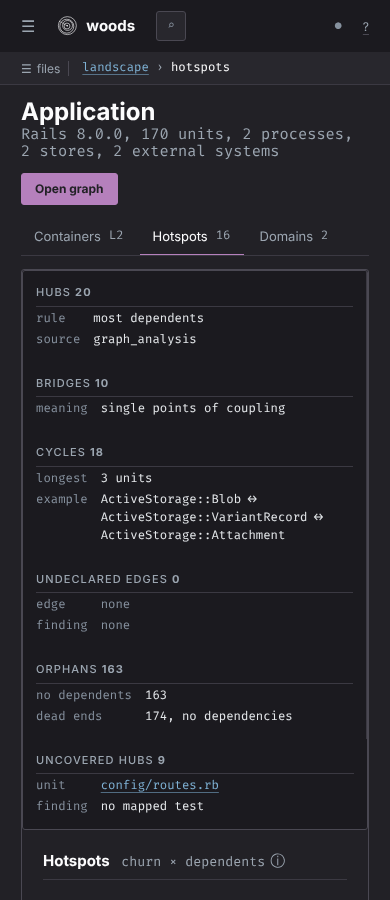
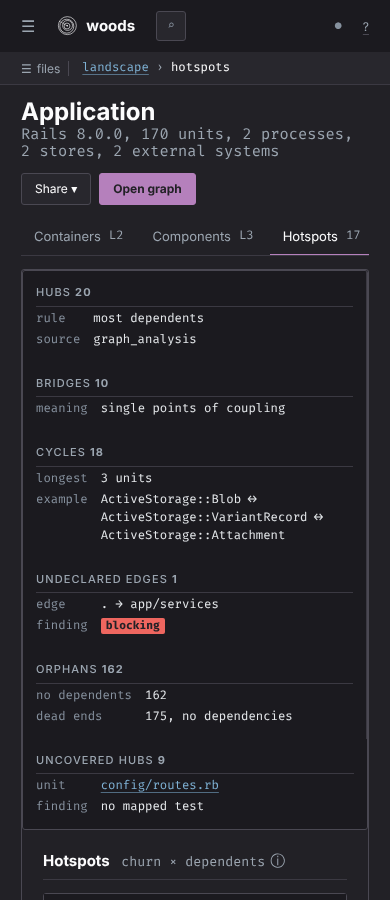
Document the flow overlay, timeline, components, charts and Share; screenshots

diff --git a/CLAUDE.md b/CLAUDE.md
@@ -51,7 +51,8 @@ lib/woods_map/passage.rb         # the Passage tab: declared filters, templates 
 lib/woods_map/routes_view.rb     # the controller Routes tab: declared routes joined to route units, helpers, action sources, helper references
 lib/woods_map/permitted_attributes.rb  # permitted keys against the model's published columns, associations, attachments, rich text, writers
 lib/woods_map/{neighbourhood_query,neighbourhood_response,graph_elements}.rb  # bounded JSON projection of existing traversal
-lib/woods_map/{landscape,container_relationships,landscape_export,hotspots}.rb  # the Landscape: C4 containers from metadata.container (W-9), its text exports, hotspots, domains
+lib/woods_map/{landscape,container_relationships,landscape_export,hotspots,components}.rb  # the Landscape: C4 containers from metadata.container (W-9), its text exports, components by package/namespace/cluster, hotspots (quadrant, sankey), domains
+lib/woods_map/{graph_flow,graph_timeline,repository_flows}.rb  # the graph's flow overlay (W-13 membership and documents) and commit timeline (W-3)
 lib/woods_map/{blast_radius,impact_review}.rb  # the impact page's pre-change mode: reverse-edge propagation with paths; rules, tests, gaps, unknowns
 lib/woods_map/{impact_range,range_report,since}.rb  # Woods' range or saved report, its tabs, and ?since= evidence for unit pages (E-6 to E-8)
 lib/woods_map/{search_results,palette,file_tree}.rb  # search modes, the palette's groups, the per-generation file tree
@@ -69,7 +70,7 @@ app/views/woods_map/shared/      # the frame: bar, crumbs, ident, tabs, status, 
 app/views/woods_map/components/  # table, steps, detail, rail, tree, facts, legend, diagram, banner, empty state
 app/views/woods_map/guidelines/  # the C1 to C5 boards rendered from the partials above
 app/views/woods_map/{units,search,impact,erd,history}/ # unit pages (Code, Routes, Passage, Schema, Lifecycle, Graph, History, peek, 404), search, impact lenses, the ERD, /woods/history and the commit strip
-app/views/woods_map/landscape/    # Containers, Hotspots and Domains tabs, the C4 box
+app/views/woods_map/landscape/    # Containers, Components, Hotspots and Domains tabs, the C4 box and ladder
 app/views/woods_map/graphs/       # the explorer partial shared by the Graph tab and /woods/graph, the page and its hub picker
 vendor/javascript/               # stimulus, pele, cytoscape (vendored); turbo, vis-timeline, highlight.js as milestones land them
 vendor/fonts/                    # Inter (latin subsets) and the complete Fira Code, WOFF2 (D-12)
@@ -100,7 +101,8 @@ docs/design/                     # design study, decisions, boards, foundations,
 - The Share menu (`shared/_share`, E-6) is a `<details>` disclosure with the page's `focus_url`, which never carries `token`, and, from each `components/mermaid_tools` copy tool (`data-mermaid-name`, `data-mermaid-href`), the page's Mermaid text and its absolute `.mmd` URL. It offers no Markdown or JSON report, not even Woods output handed through (D-25). The `y` key skips copy tools inside `.share`.
 - The Graph tab's canvas (`graph` controller) fetches `/woods/graph/neighbourhood` for the page's own query and draws it with the vendored Cytoscape; the Pele flowchart and the list stay the no-JavaScript page and the Mermaid export. Layouts are the controller's butterfly (signed traversal columns) and Cytoscape's built-in `concentric` (woods-map#63): no layout extension is vendored. Type tints are `--g` on `[data-gtype]` in `map.css`, read through a probe and mixed into `--panel`, so canvas and legend agree; a theme switch repaints. List rows carry `data-edge` (`GraphElements.edge_id`), the JSON's edge id. Above 150 edges the mechanism labels appear only when zoomed in. `spec/woods_map_graph_browser_spec.rb` times a 300-unit draw synchronously before load (virtual time freezes `performance.now()` once a timer fires); set `WOODS_MAP_GRAPH_BUDGET_MS` to enforce a budget. The tab and `/woods/graph` share `graphs/_explorer`; dragged positions are kept in `localStorage` per generation, query and layout (A-3), and the page's blast tint comes from `BlastRadius`, never from the client. Domain clusters are not drawn until Woods publishes them (woods#799).
 - The Graph tab's canvas (`graph` controller) fetches `/woods/graph/neighbourhood` for the page's own query and draws it with the vendored Cytoscape; the Pele flowchart and the list stay the no-JavaScript page and the Mermaid export. Layouts are the controller's butterfly (signed traversal columns) and Cytoscape's built-in `concentric` (woods-map#63): no layout extension is vendored. Type tints are `--g` on `[data-gtype]` in `map.css`, read through a probe and mixed into `--panel`, so canvas and legend agree; a theme switch repaints. List rows carry `data-edge` (`GraphElements.edge_id`), the JSON's edge id. Above 150 edges the mechanism labels appear only when zoomed in. `spec/woods_map_graph_browser_spec.rb` times a 300-unit draw synchronously before load (virtual time freezes `performance.now()` once a timer fires); set `WOODS_MAP_GRAPH_BUDGET_MS` to enforce a budget. The tab and `/woods/graph` share `graphs/_explorer`; dragged positions are kept in `localStorage` per generation, query and layout (A-3), and the page's blast tint comes from `BlastRadius`, never from the client. Domain clusters come from `graph_analysis.json` (woods#799) and drive the *clusters* layout; never derive them from namespaces. Overview mode (more than 120 units or 150 edges) draws units unlabelled and edges as haystack lines until zoom 0.7; `warm` draws a small graph off screen while the request is in flight.
-- The Landscape reads containers only from graph nodes' `container` (W-9) and technologies from the BehavioralProfile unit; people and the system's name are host configuration (`landscape_actors`, `system_name`), never guessed. Edges leaving a database are not drawn as relationships (the index does not say which process runs a model's callback). `/woods/landscape.{mmd,dsl,c4}` are plain text (D-25); 422 without W-9.
+- The Landscape reads containers only from graph nodes' `container` (W-9) and technologies from the BehavioralProfile unit; people and the system's name are host configuration (`landscape_actors`, `system_name`), never guessed. Edges leaving a database are not drawn as relationships (the index does not say which process runs a model's callback). `/woods/landscape.{mmd,dsl,c4}` are plain text (D-25); 422 without W-9. Components group only by published facts (graph node `package`, `namespace`, `domain_clusters`); `/woods/landscape/{components,quadrant,sankey}.mmd` answer 422 with the reason when the generation lacks them. Quadrant points stay in 0.02..0.98 with two decimals (Pele's lexer refuses `1.000`).
+- The graph's flow overlay reads only `Repository#flow_entry_points`/`#flow_document` (W-13; `flow_state` is :unsupported on a Woods without the readers). A controller step names its action; it is drawn as the controller. Moves are matched to drawn edges in either direction, and anything else goes in the side list, never onto the canvas. The timeline matches commits to drawn units by graph node `file_path` and `source_paths` only.
 - The code view is one scroll region (`.cvwrap`, D-24, woods-map#29): the source column grows to its longest line and the gutters are sticky. Do not reintroduce `overflow-x:auto` on `.src`.
 - Code links consume only published `metadata.references` with `kind: constant` and `confidence: verified`, resolved by exact target and target type in the pinned generation. Their 1-based lines address annotated `source_code`; columns and lengths count UTF-8 bytes, including original newlines. Only unchanged file rows can carry links. Missing/invalid metadata and hidden or transformed rows stay unlinked; the internal reference cache is not a public link source. `source_line_map` runs contain annotated start, original start and length, not an ending line. Verification describes the published typed-registry evidence, not complete runtime call coverage.
 

diff --git a/docs/design/coverage.md b/docs/design/coverage.md
@@ -41,10 +41,10 @@ opens the file tree.
 | `/woods/files/*path` | Indexed file ownership: primary and contributor paths, typed owners and unresolved membership | B-5 | [M1 navigation note](notes/m1-indexed-navigation.md) | shared components; mounted acceptance separate |
 | `/woods/landscape` Context L1 | People and external systems | B-21 | [B8-Landscape](boards/B8-Landscape.html) (ladder only) | partial; people from `config.landscape_actors`, inside the Containers tab ([note](notes/landscape.md)) |
 | Landscape Containers L2 | C4 containers, relationships, structural risk | B-21, W-9 | [B8-Landscape](boards/B8-Landscape.html) | final; built from W-9 with Mermaid, Structurizr DSL and LikeC4 exports ([note](notes/landscape.md)) |
-| Landscape Components L3 | Compound graph by package with container frame | B-22 | — | **none** |
-| Landscape Hotspots | Quadrant, coupling matrix, sankey, treemap, structural risk | design study §7 | [B6-Overview](boards/B6-Overview.html) | final; tiles, churn ranking, coupling matrix and risk built; quadrant, sankey and treemap not ([note](notes/landscape.md)) |
+| Landscape Components L3 | Components by package, namespace or domain cluster, with the board's group control | B-22 | [B8-Landscape](boards/B8-Landscape.html) (group control, ladder) | built: boxes, Pele component diagram, relationships with undeclared package edges; by package only for Packwerk apps (Woods #280) ([note](notes/landscape.md)) |
+| Landscape Hotspots | Quadrant, coupling matrix, sankey, treemap, structural risk | design study §7 | [B6-Overview](boards/B6-Overview.html) | final; tiles, the churn × dependents quadrant and ranking, coupling matrix, forward-flow sankey and risk built; the LOC treemap waits on [woods#810](https://github.com/lost-in-the/woods/issues/810) ([note](notes/landscape.md)) |
 | Landscape Domains | Domain clusters | design study §7 | [design note](notes/landscape.md) | built from woods#799, with the graph's clusters layout |
-| `/woods/graph` | Full-screen graph, domain clusters, list equivalent, flow overlay | FR-5, A-3 to A-6 | B5-Graph (tab only); [design note](notes/graph-page.md) | partial: page, list equivalent, blast tint and position cache built; clusters wait on [woods#799](https://github.com/lost-in-the/woods/issues/799); flow overlay and timeline open |
+| `/woods/graph` | Full-screen graph, domain clusters, list equivalent, flow overlay | FR-5, A-3 to A-6 | B5-Graph (tab only); [design note](notes/graph-page.md) | built: page, list equivalent, blast tint, position cache, clusters layout (woods#799), flow overlay from W-13 ([woods#805](https://github.com/lost-in-the/woods/pull/805)) and the commit timeline from W-3; layouts pending [woods-map#63](https://github.com/lost-in-the/woods-map/issues/63) |
 | `/woods/erd` | Whole database by chunk, findings | FR-6 | [B6-ERD](boards/B6-ERD.html) | final; the engine cuts chunks at the ER budget of 40 tables (R-4), not the board's ~15, lists relations to other chunks instead of drawing their far table, and leaves out the board's commits column and polymorphic candidates (W-23) |
 | `/woods/history` | Cross-unit timeline for a selected set, commit → node | FR-7, A-6 | [History note](notes/history.md) | note; server-rendered lanes with changed-together pairs, a picker of the most-changed units, the `timeline` export |
 | `/woods/impact` Overview | The report's summary as the page's sections (no Markdown, D-25) | E-7 | [Impact range note](notes/impact-range.md) (v8 pass of B5-Impact-Overview) | summary table, samples, provenance, coverage, unknowns; range and saved reports (`/woods/impacts/:id`) |
@@ -72,9 +72,9 @@ them. Each is a comment on that issue, so the issue owns it.
 - **M1 · Reading (woods-map#34, carried over from #2)**: units index and indexed ownership now have a [bounded design note](notes/m1-indexed-navigation.md) under [#34](https://github.com/lost-in-the/woods-map/issues/34); the Routes tab has a [design note](notes/routes-tab.md); remaining gaps include facts tiles for job, mailer, view, concern, serializer and table units; the hover card has a [design note](notes/hover-card.md); disambiguation popover; the settings popover has a [design note](notes/settings.md); keyboard help; Share menu contents ([design note](notes/share-menu.md), D-25).
 - **M2 · Passage (woods-map#3)**: mailer passage with templates (reuse the controller passage).
 - **M4b · Impact (woods-map#4)**: Overview and Graph tabs and `?since=` on Code, Graph, Lifecycle, Passage and ERD have design notes ([impact range](notes/impact-range.md), [since](notes/since.md)); changed lines and the diff wait on [woods#802](https://github.com/lost-in-the/woods/issues/802); `?since=` on the tree and timeline remains.
-- **M3 · Diagrams (woods-map#5)**: Landscape Context L1, Components L3, Domains; C4-dynamic in the Lifecycle view control (needs W-9); the renderer decision (woods-map#25). The flowchart and lanes views follow the [lifecycle views note](notes/lifecycle-views.md).
+- **M3 · Diagrams (woods-map#5)**: Landscape Context L1 as its own tab; the LOC treemap (woods#810); C4-dynamic in the Lifecycle view control (needs W-9); the renderer decision (woods-map#25). The flowchart and lanes views follow the [lifecycle views note](notes/lifecycle-views.md).
 - **M4 · History (woods-map#6)**: `/woods/history` cross-unit timeline; generation picker; unit diff entry from the History tab. Built from the [History note](notes/history.md).
-- **M5 · Graph (woods-map#7)**: [neighbourhood JSON contract](notes/neighbourhood-json.md); the Graph tab's Cytoscape canvas, layouts pending [woods-map#63](https://github.com/lost-in-the/woods-map/issues/63); the [full-screen graph](notes/graph-page.md) without clusters (woods#799); the flow overlay and timeline remain separate.
+- **M5 · Graph (woods-map#7)**: [neighbourhood JSON contract](notes/neighbourhood-json.md); the Graph tab's Cytoscape canvas, layouts pending [woods-map#63](https://github.com/lost-in-the/woods-map/issues/63); the [full-screen graph](notes/graph-page.md) with clusters, the flow overlay (A-4) and the commit timeline (A-6).
 - **M6 · Trail (woods-map#8)**: the board, end to end.
 - **M7 · Guide (woods-map#9)**: chat history, pin and "open as investigation" handoff.
 

diff --git a/docs/design/notes/landscape.md b/docs/design/notes/landscape.md
@@ -1,11 +1,11 @@
 # Landscape
 
-Scope: B-21 and B-22 (by domain cluster), FR-6 exports, D-25. Relates to #5
-(M3) and #7 (M5). Boards: [B8-Landscape](../boards/B8-Landscape.html) for
-Containers, [B6-Overview](../boards/B6-Overview.html) for Hotspots. The
-Domains tab has no board; this note covers it.
+Scope: B-21, B-22 (by package, namespace or domain cluster), FR-6 exports, D-25.
+Relates to #5 (M3) and #7 (M5). Boards: [B8-Landscape](../boards/B8-Landscape.html)
+for Containers, Components and the group control, [B6-Overview](../boards/B6-Overview.html)
+for Hotspots. The Domains tab has no board; this note covers it.
 
-`/woods/landscape(/containers|hotspots|domains)` reads one pinned generation.
+`/woods/landscape(/containers|components|hotspots|domains)` reads one pinned generation.
 `Landscape` joins the primary bar, between Units and Graph.
 
 ## Containers (C4 level 2)
@@ -45,22 +45,63 @@ name in `Content-Disposition`. A generation without W-9 answers 422.
 | Mermaid | `/woods/landscape.mmd` | flowchart, the system as a subgraph |
 | Structurizr DSL | `/woods/landscape.dsl` | workspace, one container view, `Database` cylinder |
 | LikeC4 | `/woods/landscape.c4` | specification, model, `containers of app` view |
+| Mermaid | `/woods/landscape/components.mmd?group=package\|namespace\|cluster` | the Components flowchart |
+| Mermaid | `/woods/landscape/quadrant.mmd` | the Hotspots quadrant |
+| Mermaid | `/woods/landscape/sankey.mmd` | the Hotspots forward flow |
+
+A diagram the generation cannot draw answers 422 with the reason: no packages, no
+clusters, no commit counts, or no forward edge.
+
+**Share menu.** Every Landscape tab has the Share menu: the token-free focus URL (tab and
+`group` included) and the tab's text exports as plain links, so the menu works without a
+script. With a script it also copies each diagram's Mermaid, as on the unit pages.
+
+## Components (C4 level 3)
+
+The board's `group` control picks one of three published groupings:
+
+- **package**: the `package` Woods writes on each graph node from `package.yml`
+  (Packwerk or pks, Woods #280). It is the default when any unit has one. Each box names
+  the packages its `package.yml` declares, from the package unit's `package_dependency`
+  edges. A relationship that `graph_analysis.json` lists in `undeclared_package_edges`
+  is marked *undeclared*.
+- **namespace**: the top-level segment of each node's `namespace`. Units with none
+  share *(top level)*. This is the default without packages.
+- **domain cluster**: `graph_analysis.json` `domain_clusters` (woods#799). Units in no
+  cluster share *(no cluster)*.
+
+Members are application units: a relative source file and a type that is code. Routes,
+migrations, configuration, framework sources, engines, packages and test mappings are
+left out. Relationships count published edges between members of two groups, leaving
+out test coverage, route exercise, documentation, migration and package-declaration
+edges.
+
+**Limits.** A generation with no packages, asked for packages, says so and links
+the other two groupings. The same applies to clusters before woods#799. The map never
+infers a package from a directory or a cluster from names. The flowchart stops at 40
+components (R-4), and the tables still list every one.
 
 ## Hotspots (B6-Overview)
 
 **Built**
 - Tiles for hubs, bridges, cycles, undeclared package edges, orphans and uncovered
   hubs. A hub is uncovered when no `test_coverage` edge reaches it.
-- A churn × dependents ranking from node commit counts. When the generation has no
-  git enrichment, this is an empty state.
+- The churn × dependents **quadrant** (Pele `quadrantChart`) above the ranked list of
+  the same 18 units. x is commits against the most changed unit; y is dependents on a
+  log scale against the most depended upon. Points stay inside 0.02 to 0.98, and
+  names keep only characters the grammar reads (`::` becomes `.`). Without git
+  enrichment this is an empty state.
 - The layer coupling matrix: typed edges, leaving out test, route-exercise,
   documentation and migration bookkeeping.
+- The **forward flow** (Pele `sankey`): the matrix's edges from a layer to a later one
+  (controllers, views, components, jobs, mailers, models), so the flow has no cycle.
+  Edges that run back up the layers stay in the matrix.
 - The structural-risk table.
 
 **Not built**
-- The quadrant chart.
-- The forward-flow sankey.
-- The LOC treemap. LOC per package is not published.
+- The LOC treemap. Woods publishes no size per unit, so a package's size can't be
+  summed without reading host files. That data is filed as
+  [woods#810](https://github.com/lost-in-the/woods/issues/810).
 
 ## Domains
 
@@ -72,6 +113,6 @@ one block. Clusters are identifier-level, as Woods publishes them.
 ## Not built
 
 - Context (L1) and Status as separate tabs; Context sits inside Containers.
-- Components (L3) by Packwerk package.
-- The board's `group` control.
-- The Share menu.
+- The treemap (woods#810).
+- The board's *period* control on Hotspots. Commit counts are the generation's own
+  git enrichment, with no window to choose.

diff --git a/docs/design/notes/graph-page.md b/docs/design/notes/graph-page.md
@@ -1,8 +1,8 @@
 # Full-screen graph
 
-Scope: FR-5, A-2, A-3, A-5 and E-9 tinting. Relates to #7.
-Layouts are decided in #63. Domain clusters wait on woods#799.
-The flow overlay (A-4) and the timeline (A-6) remain separate.
+Scope: FR-5, A-2 to A-6 and E-9 tinting. Relates to #7.
+Layouts are decided in #63. The flow overlay (A-4) and the timeline (A-6) are on the
+Graph tab and on this page alike.
 
 No board designs this page; B6-Graph designs only the Graph tab. The page reuses
 that tab's explorer unchanged:
@@ -61,15 +61,55 @@ At most 24 keys are kept; the oldest is dropped. A new generation starts from th
 computed layout. *Reset positions* forgets the current key. Every storage access
 is in `try`/`catch`; without storage the page draws the same and keeps nothing.
 
-## Not built
+## Domain clusters
 
-**Domain clusters** need a generation from a Woods that publishes them (woods#799).
+Domain clusters come from a Woods that publishes them (woods#799).
 With them, `group=clusters` and a *clusters* layout box each cluster's drawn members
 (see [landscape.md](landscape.md)). Without them, the rail links woods#799 and the page
 draws none. It never derives clusters from namespaces itself.
 
-**Flow overlay (A-4) and timeline (A-6).** Both need the flow index (W-13) and the
-History work (M4). They stay on #7.
+## Flow overlay (A-4)
+
+The rail's *flows* group lists the precomputed flows that expanded a step of the
+centre. It reads `PublishedIndex#flow_entry_points` over `flows/by_unit.json` (W-13,
+[woods#805](https://github.com/lost-in-the/woods/pull/805)). Each entry links the
+same view with `?flow=`, and the filter form, depth and direction links keep it.
+
+`GraphFlow` maps the selected document's steps onto what the explorer draws:
+
+- A controller step (`PostsController#create`) is drawn as its controller's unit.
+  Every other step is drawn as its own typed unit.
+- A move from one step's unit to the next is matched to a drawn edge between them,
+  in either direction. Two steps on the same unit need no edge.
+- The canvas outlines the matched units and edges in the link colour. *Play the flow*
+  lights them one step at a time, and the status line names each step. With reduced
+  motion, the whole path is lit at once and named in one line.
+- The side list, *Flow ⟨entry⟩*, has every step in document order. It shows the
+  operation count, whether the canvas draws the step's unit at this depth, and the edge
+  that reached it. A step with no graph edge from the step before is marked there.
+  Nothing is drawn that the graph does not have.
+
+The rail says why no flow is listed: none expands this unit (each flow stops at
+its own depth), the generation publishes none (`precompute_flows` is off), the
+artifacts are unreadable, or this Woods has no W-13 readers. Membership is bounded
+flow evidence. It does not show that a request takes the path.
+
+## Timeline (A-6)
+
+`GraphTimeline` lists the commits in the generation's commit table (W-3) that touched
+a drawn unit's `file_path` or `source_paths`, newest first. It keeps at most 80 and
+says how many it left out. With a script, two range inputs pick a window of commits,
+oldest first, and the units its commits touched are filled with `--mod`. A *tint*
+button on each row narrows the window to that commit. Without a script, the commit
+list names the drawn units each commit touched. A unit's inlined concerns count
+through the concern's own node only. Without a commit table, the section says why.
+
+## Not built
+
+- The timeline as vis-timeline. As on `/woods/history`, no unmodified ESM build fits
+  the no-build rule, so the window is two native range inputs.
+- Operations inside a flow step, drawn on the canvas. The side list counts them; the
+  unit's own pages read them.
 
 ## Validation
 

diff --git a/docs/design/screenshots/README.md b/docs/design/screenshots/README.md
@@ -31,6 +31,11 @@ widths are the tiers of D-19.
 | Landscape, Containers (`/woods/landscape`, C4 level 2 from W-9, the Pele container diagram, relationships; [note](../notes/landscape.md)) | [B8-Landscape](../boards/B8-Landscape.html) | [1440](landscape-containers-1440.png), [960](landscape-containers-960.png), [640](landscape-containers-640.png), [390](landscape-containers-390.png), [light](landscape-containers-light-1440.png) |
 | Landscape, Hotspots | [B6-Overview](../boards/B6-Overview.html) | [1440](landscape-hotspots-1440.png), [960](landscape-hotspots-960.png), [640](landscape-hotspots-640.png), [390](landscape-hotspots-390.png), [light at 960](landscape-hotspots-light-960.png) |
 | Landscape, Domains, and the graph's clusters layout | no board, [note](../notes/landscape.md) | [1440](landscape-domains-1440.png), [960](landscape-domains-960.png), [640](landscape-domains-640.png), [390](landscape-domains-390.png), [graph clusters](graph-clusters-1440.png), [at 390](graph-clusters-390.png) |
+| Landscape, Components (`/woods/landscape/components`, C4 level 3 by package on a testbed copy with two `package.yml` files and one undeclared edge; by namespace and by domain cluster; [note](../notes/landscape.md)) | [B8-Landscape](../boards/B8-Landscape.html) (group control, ladder) | [1440](landscape-components-1440.png), [960](landscape-components-960.png), [640](landscape-components-640.png), [390](landscape-components-390.png), [namespace 960](landscape-components-namespace-960.png), [cluster 640](landscape-components-cluster-640.png), [light 960](landscape-components-light-960.png) |
+| Landscape, Hotspots with the churn × dependents quadrant and the forward-flow sankey (testbed copy with a throwaway git history) | [B6-Overview](../boards/B6-Overview.html) | [light 1440, full page](landscape-hotspots-light-1440.png) |
+| Landscape, the Share menu open: focus URL and the Containers text exports | [B8-Landscape](../boards/B8-Landscape.html) | [1440](landscape-share-1440.png) |
+| Graph flow overlay (`/woods/graph?centre=User&type=model&flow=UsersController%23show`, W-13 from woods#805, rail flows, outlined steps, the side list, the timeline; [note](../notes/graph-page.md)) | [B6-Graph](../boards/B6-Graph.html) (tab only) | [1440](graph-flow-1440.png), [960](graph-flow-960.png), [640](graph-flow-640.png), [390](graph-flow-390.png), [light 960](graph-flow-light-960.png), [playing, step 2](graph-flow-play-1440.png), [Graph tab, `Post` with `PostsController#create`](unit-graph-flow-1440.png) |
+| Graph timeline (`Post` at depth 2, one commit's units tinted from its row) | [B6-Graph](../boards/B6-Graph.html) (tab only) | [1440](graph-timeline-1440.png) |
 | ERD (`/woods/erd`, chunk 1 by namespace; then by database with all columns; a chunk of the generated 300-model index) | [B6-ERD](../boards/B6-ERD.html) | [1440](erd-1440.png), [light](erd-light-1440.png), [by database, all columns, colour-vision](erd-database-all-cvd-1440.png), [390](erd-390.png), [300 models, chunk 3 of 9](erd-300-models-1440.png) |
 | Controller unit page | [B8-Code](../boards/B8-Code.html), outline of actions and filters | [1440](controller-1440.png) |
 | Table, template and route unit pages (type-specific tiles are an M1 gap in coverage.md) | B6/B8 frame | [table](table-1440.png), [template](template-1440.png), [route](route-1440.png) |

diff --git a/CHANGELOG.md b/CHANGELOG.md
@@ -2,6 +2,16 @@
 
 ## [Unreleased]
 
+- Graph flow overlay and timeline (woods-map#7, A-4, A-6, docs/design/notes/graph-page.md). Both appear on the Graph tab and on `/woods/graph`.
+  - **Flows:** the rail lists the precomputed flows that expanded a step of the centre (Woods W-13, `flows/by_unit.json`). `?flow=` lays one over the canvas: each step's unit, and the drawn edge between consecutive steps, are outlined in the link colour. *Play the flow* lights the steps in order; with reduced motion the whole path is lit at once.
+  - A side list gives every step with its operation count, whether the canvas draws it, and the edge that reached it. Steps with no graph edge are marked, never invented.
+  - Without W-13 readers or published flows, the rail says why.
+  - **Timeline:** the commits in the commit table (W-3) that touched the units drawn. Two range inputs choose a window of commits, and the units those commits touched are filled with `--mod`. A *tint* button narrows the window to one commit. Without a script, the commit list names the units.
+- Landscape, second slice (woods-map#5, docs/design/notes/landscape.md).
+  - **Components (C4 level 3):** the board's group control groups application units by Packwerk package, top-level namespace or published domain cluster. Each component box shows its hub and, for a package, its declared dependencies. The component diagram is drawn by Pele, with a relationships table that marks undeclared package edges. Without packages or clusters, the tab names the limit.
+  - **Hotspots:** a churn × dependents quadrant and a forward-flow sankey between layers, drawn by Pele. The LOC treemap waits on woods#810.
+  - **Share menu** on every tab: the focus URL and the tab's text exports as plain links. The new diagram texts are at `/woods/landscape/components.mmd?group=`, `/quadrant.mmd` and `/sankey.mmd`; a diagram the generation cannot draw answers 422.
+
 - M7 guide (woods-map#9, FR-8). `config.guide_enabled` (off by default) docks a guide panel beside every framed page (B8-Guide). The panel is a RubyLLM 2.1 agent over the Woods Index MCP server: stdio to `woods-mcp` (D-7) or a deployed `woods-mcp-http`, with the twelve read-only tools only.
   - Eight page-aware actions, as overridable prompt templates, plus free questions, seeded with a server-built context: generation, unit, selected lines, action, impact focus or range.
   - Answers stream over server-sent events, with tool cards as calls start and end, and finish as Markdown rendered with links only to known identifiers.

diff --git a/docs/design/plan.md b/docs/design/plan.md
@@ -105,6 +105,9 @@ Run this before a milestone issue is opened and again before it closes.
 | M3 first slice: the Pele renderer, Schema ER, Lifecycle sequence and Graph neighbourhood panels with their budgets (R-4); other M3 work remains on #5 | [woods-map#5](https://github.com/lost-in-the/woods-map/issues/5), [woods-map#37](https://github.com/lost-in-the/woods-map/pull/37) |
 | Landscape: Containers (W-9) with Mermaid, Structurizr DSL and LikeC4 exports, Hotspots, Domains ([design note](notes/landscape.md)); M3 scope | [woods-map#5](https://github.com/lost-in-the/woods-map/issues/5) |
 | M5 full-screen graph page: blast tint, position cache, hubs ([design note](notes/graph-page.md)) | [woods-map#7](https://github.com/lost-in-the/woods-map/issues/7) |
+| M5 flow overlay (A-4) from W-13 flow membership and the graph's commit timeline (A-6) from W-3, on the Graph tab and the full-screen graph | [woods-map#7](https://github.com/lost-in-the/woods-map/issues/7), [woods#805](https://github.com/lost-in-the/woods/pull/805), [note](notes/graph-page.md) |
+| Landscape Components (L3) by package, namespace or domain cluster with the group control; Hotspots quadrant and forward-flow sankey; the Share menu with every diagram's text (D-25); M3 scope | [woods-map#5](https://github.com/lost-in-the/woods-map/issues/5), [note](notes/landscape.md) |
+| Woods Map data: source line counts per unit, for the Hotspots treemap of packages by LOC | [woods#810](https://github.com/lost-in-the/woods/issues/810) |
 | Woods Map data: domain clusters in `graph_analysis.json` (M5 full-screen graph) | [woods#799](https://github.com/lost-in-the/woods/issues/799) |
 | M5 Graph tab layouts without fcose or dagre: a computed butterfly and Cytoscape's concentric radial (needs-decision) | [woods-map#63](https://github.com/lost-in-the/woods-map/issues/63) |
 | M3 Mermaid export: copy and a `.mmd` link from every diagram's tools; each diagram's text is served as `text/plain` from a stable `.mmd` URL (constraint 3, D-25). Structurizr DSL and LikeC4 wait on W-9 | [woods-map#5](https://github.com/lost-in-the/woods-map/issues/5) |
